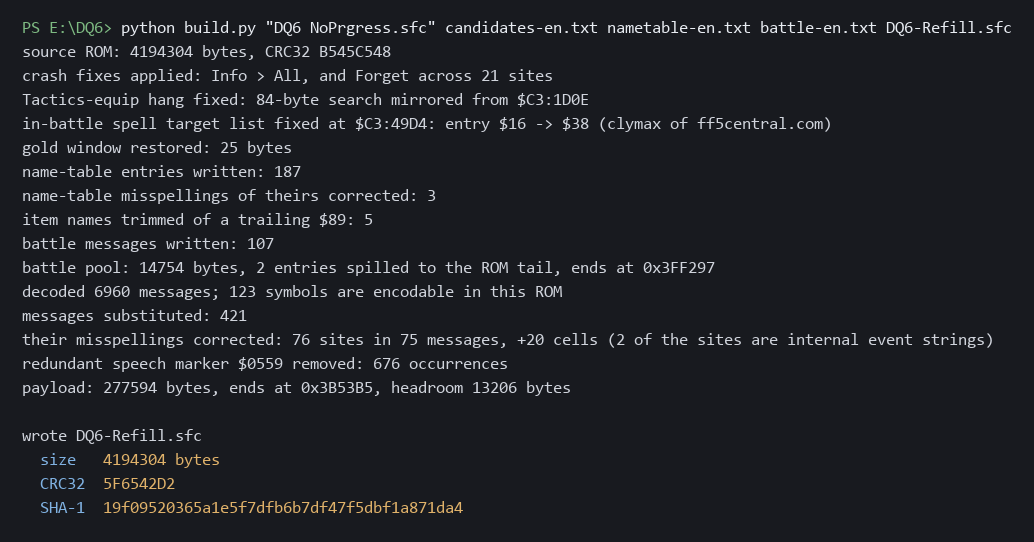
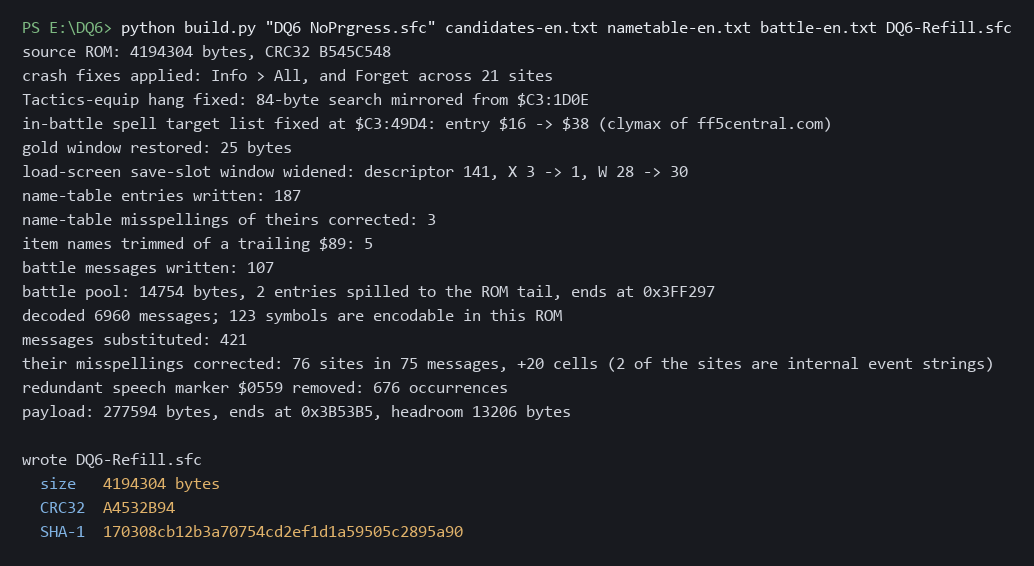
v6.1: widen the load screen's save-slot window
A save location was losing its last letter on the load screen: Dhama Shrine
drew as "Dhama Shrin", Southern Gate lost two. It was not only clipping. The
tilemap row is 32 cells and the text is not bounded by the window, so an
over-long name wraps around the row and draws over the menu behind it.

The window is descriptor 141 in the table at $C5:7B5C. That table is
identified from the code rather than by pattern matching: the window-open
routine at $C3:736C reaches it through an inline argument whose bytes are
5C 7B C5, and the same routine stores the window's left column into $388C.
Every field on the slot line is drawn at $388C plus an offset, so moving the
window moves the whole line and no drawing code changes.

   descriptor 141 at 0x058312
      X: 3 -> 1     two cells left
      W: 28 -> 30   right edge unchanged

The location field goes from 11 cells to 13, which fits both names. The
internal checksum is unchanged because X falls by 2 and W rises by 2 and the
two cancel in the sum. build.py refuses to write unless the descriptor reads
exactly X=3 Y=6 W=28.

The field width was measured, not estimated: a throwaway build with
1234567890ABCDEFGHIJ written into the location entry reports its own width on
screen, and confirmed 11 before and 13 after.

Scope, and it is deliberately narrow. This is the load screen only; the
in-game save screen is a different window and is untouched. The window cannot
[…]

Changed region(s): [[0.0, 0.0295, 0.9903, 0.738], [0.0, 0.797, 0.4642, 0.9742], [0.6499, 0.2952, 0.6809, 0.3247]]

diff --git a/docs/SPELL-TARGET.html b/docs/SPELL-TARGET.html
@@ -293,7 +293,7 @@ differently because of it.</p>
 
 <p><code>build.py</code> prints the substitution as it applies it and refuses to
 write if <code>$C3:49D4</code> does not hold <code>0x16</code> going in. The
-finished build is <code>CRC32 5F6542D2</code>.</p>
+finished build is <code>CRC32 A4532B94</code>.</p>
 
 <p>On a screen, which is the only check that means anything here: get somebody
 into the caravan, start a battle, choose Fight and a spell that targets an ally,

diff --git a/build.py b/build.py
@@ -188,6 +188,13 @@ GOLD_CODE_NOW = bytes.fromhex('A91000223A76C3A93E0022FE83C3ABC2307AFA68286B')
 GOLD_DESC_AT = 0x057E88          # descriptor 58, bytes 0-2: X, Y, W
 GOLD_DESC_NOW = bytes([0x01, 0x01, 0x09])
 
+# The load screen's save-slot window, descriptor 141 in the same table. Moving
+# it two cells left and widening it by two gives the location name 13 cells
+# instead of 11, without moving its right edge. See docs/SAVE-SLOT-WINDOW.md.
+SLOT_DESC_AT = 0x058312          # descriptor 141, bytes 0-2: X, Y, W
+SLOT_DESC_WAS = bytes([0x03, 0x06, 0x1C])
+SLOT_DESC_NOW = bytes([0x01, 0x06, 0x1E])
+
 
 
 # ---------------------------------------------------------------------------
@@ -629,6 +636,29 @@ def _nt_correct(raw, was, now, dic, inv, sid):
             out.append(flat[i])
             i += 1
     return bytes(out)
+
+
+def apply_slot_window(rom):
+    """Widen the load screen's save-slot window. Refuses on anything else.
+
+    The window is descriptor 141 in the table at $C5:7B5C, read by the
+    window-open routine at $C3:736C, which stores the window's left column into
+    $388C. Every field on the slot line is drawn at $388C plus an offset, so
+    moving the window moves the whole line with it and no drawing code changes.
+
+    X 3 -> 1 and W 28 -> 30 keeps the right edge exactly where it was and takes
+    two cells off the left, which is where the slack is. The location name
+    field goes from 11 cells to 13. The internal checksum is unchanged by this
+    edit because the two byte changes cancel.
+    """
+    n = len(SLOT_DESC_WAS)
+    if bytes(rom[SLOT_DESC_AT:SLOT_DESC_AT + n]) != SLOT_DESC_WAS:
+        raise SystemExit(
+            'save-slot window: descriptor 141 at 0x%06X is not the '
+            'expected X=%d Y=%d W=%d. Refusing to write.'
+            % ((SLOT_DESC_AT,) + tuple(SLOT_DESC_WAS)))
+    rom[SLOT_DESC_AT:SLOT_DESC_AT + n] = SLOT_DESC_NOW
+    return n
 
 
 def apply_names(rom, table):
@@ -1118,6 +1148,11 @@ def main(src, cand, names_path, battle_path, dst):
           '(clymax of ff5central.com)' % (TARGET_BEFORE, TARGET_AFTER))
     g = apply_gold(rom)
     print('gold window restored: %d bytes' % g)
+
+    apply_slot_window(rom)
+    print('load-screen save-slot window widened: descriptor 141, X %d -> %d, '
+          'W %d -> %d' % (SLOT_DESC_WAS[0], SLOT_DESC_NOW[0],
+                          SLOT_DESC_WAS[2], SLOT_DESC_NOW[2]))
 
     n_names, n_nt_typo, n_trim = apply_names(rom, read_nametable(names_path))
     print('name-table entries written: %d' % n_names)

diff --git a/patchRM.py b/patchRM.py
@@ -22,7 +22,7 @@ Standard-library Python 3 only. No dependencies, nothing to install.
 
 The result is identical to what Flips produces from the same patch:
 
-    CRC32 5F6542D2   SHA-1 19f09520365a1e5f7dfb6b7df47f5dbf1a871da4
+    CRC32 A4532B94   SHA-1 170308cb12b3a70754cd2ef1d1a59505c2895a90
 """
 import glob
 import hashlib
@@ -32,7 +32,7 @@ import sys
 import zlib
 
 EXPECT_SRC_CRC = 0xB545C548
-EXPECT_DST_CRC = 0x5F6542D2
+EXPECT_DST_CRC = 0xA4532B94
 DEFAULT_PATCH = 'DQ6-SFC-NoPrgress-RM-ScriptRefill.bps'
 NL = chr(10)
 
@@ -242,7 +242,8 @@ def main(argv):
     print()
     print('  The patch contains everything: 421 messages, 107 battle messages,')
     print('  187 name-table entries, 67 corrected misspellings of theirs, the')
-    print('  item-name asterisk that overran the item window, both crash fixes,')
+    print('  item-name asterisk that overran the item window, the widened')
+    print('  save-slot window on the load screen, both crash fixes,')
     print("  the Tactics-equip hang, the gold window, clymax's in-battle spell")
     print('  target fix, and the redundant speech marker dropped. Nothing else')
     print('  to apply. Your original ROM was not modified.')

diff --git a/docs/SAVE-SLOT-WINDOW.md b/docs/SAVE-SLOT-WINDOW.md
@@ -1,0 +1,117 @@
+# The load screen's save-slot window
+
+Why `Dhama Shrine` lost its last letter on the load screen, and the two bytes
+that fixed it in v6.1.
+
+---
+
+## What it looked like
+
+On `Continue A Quest`, each save slot draws one line:
+
+```
+1:Mike          Lv84  Dhama Shrin
+```
+
+The final `e` sat under the window frame. `Southern Gate` lost two letters.
+
+It is not only clipping. The tilemap row is 32 cells wide and the text is not
+bounded by the window, so an over-long name **wraps around the row** and draws
+on the next line at the left of the screen. A ruler string written into the
+place-name entry showed characters 14 and 15 appearing outside the box, over
+the menu behind it.
+
+---
+
+## Measuring it
+
+A throwaway build with `1234567890ABCDEFGHIJ` written into the location entry,
+photographed at a known window size, gives the field width directly: each
+character names its own position, so the last one visible is the answer.
+
+Measured against a 32-cell screen, before the fix:
+
+| | cell |
+|---|---|
+| window frame, left | 3.0 |
+| cursor | 4.2 |
+| `1:` + name field (8 characters) | 5 - 12 |
+| `Lv84` | 14 - 16 |
+| place name | 20 - 30 |
+| window frame, right | 30.6 |
+
+**Eleven cells** for the location. `Dhama Shrine` is 12 and `Southern Gate` is
+13, so both overran, and the ruler confirmed the count exactly.
+
+---
+
+## The fix
+
+The window is **descriptor 141** in the table at `$C5:7B5C`, 14 bytes per
+entry with X, Y, W in the first three.
+
+That table is identified from the code rather than from pattern matching: the
+window-open routine at `$C3:736C` reads it through an inline argument whose
+bytes are `5C 7B C5`. The same routine stores the window's left column into
+`$388C`, and every field on the slot line is drawn at `$388C` plus an offset.
+**So moving the window moves the whole line with it**, and no drawing code has
+to change.
+
+```
+descriptor 141 at 0x058312
+   X: 3 -> 1        two cells left
+   W: 28 -> 30      right edge stays exactly where it was
+```
+
+Two bytes. The location field goes from 11 cells to **13**, which fits both
+names above, and the wrap-around no longer happens for them.
+
+The SNES internal checksum is unchanged, because `X` falls by 2 and `W` rises
+by 2 and the two cancel in the sum.
+
+`build.py` refuses to write unless descriptor 141 reads exactly `X=3 Y=6 W=28`,
+the same guard the crash fixes and the gold window use.
+
+---
+
+## Why it stops at 13
+
+**The window cannot grow outward.** Tested on hardware and in an emulator:
+moving the left edge to cell 0, or extending the right edge to cell 31, puts
+the frame where overscan cuts it. `X=1, W=30` is the practical limit in both
+directions, so 13 cells is the ceiling this approach can reach.
+
+**Two cells inside the line are still wasted** - one between the name field and
+`Lv`, one between `Lv84` and the location. Reclaiming them would give 15
+without touching the window at all, and that is the better fix. It was not
+done because the gaps are not constants in the drawing code: this menu system
+queues *fields* into a list at runtime (`$C3:7C95` writes them to `$3AC6`), and
+the gaps come from dedicated spacer fields whose only body is `INC $388A`:
+
+```
+$C3:84BC   INC $388A / RTL          advance one cell
+$C3:84C5   INC $388A / INC $388A    advance two
+```
+
+Those routines are shared across windows, so patching one blind would move text
+on screens that are currently correct. Identifying which spacer this window
+queues needs a runtime trace - a write breakpoint on `$7E:388A` while the load
+screen draws - not static reading. Three separate column constants were tried
+and rejected first: `$C3:913D` `+8`, `$C3:8927` `+9`, `$C3:8947` `+9`. All
+three drive other screens; none moved this one.
+
+---
+
+## Scope, and what is not fixed
+
+**This is the load screen only.** The in-game save screen, reached from a king
+or a priest, is a *different window* that this release does not touch. It sits
+nearly flush with the screen already, so it has far less slack.
+
+**Long location names still overrun.** Of 94 location entries, 37 were longer
+than the old 11 cells and **19 are still longer than 13**, including five at 17
+characters (`Wild Horse Forest`, `Land of Happiness`, `Northern Mountain`,
+`Dream-seeing Well`, `Herbal Hotsprings`). Whether any of them is a place the
+game lets you save at has not been established. If one turns up in play, the
+options are the two internal cells above, or shortening the name - and the
+names are NoPrgress's, so that is not a change this project makes on its own.

diff --git a/README.md b/README.md
@@ -119,6 +119,14 @@ New in v5.0, it drops a **trailing asterisk from five item names** that pushed
 `Demon Hammer*`, `Mirror Armor*` and `Flame Shield*` past the right edge of the
 item window. See [`docs/ITEM-NAME-ASTERISK.md`](docs/ITEM-NAME-ASTERISK.md).
 
+New in v6.1, it **widens the load screen's save-slot window** so a save
+location fits. `Dhama Shrine` was losing its last letter and `Southern Gate`
+two, and an over-long name did not merely clip: it wrapped around the tilemap
+row and drew over the menu behind it. Two bytes in one window descriptor take
+the location field from 11 cells to 13. This is the **load screen only**; the
+in-game save screen is a different window and is unchanged. Details, and what
+is still not fixed, in [`docs/SAVE-SLOT-WINDOW.md`](docs/SAVE-SLOT-WINDOW.md).
+
 New in v6.0, it writes **107 battle messages**. These live in a third string
 system that nothing in this project could see until it was looked for directly:
 a byte-encoded pool whose pointer table ends on the first byte of the Huffman
@@ -284,8 +292,9 @@ back.
 **This is what you want if you just want to play.** One step, no Python.
 
 **One patch contains everything** - the 421 messages, the 107 battle messages,
-the 187 names, the 67 corrected misspellings, the item-name asterisk, both crash
-fixes, the Tactics-equip hang, the gold window and clymax's spell-target fix.
+the 187 names, the 67 corrected misspellings, the item-name asterisk, the
+save-slot window, both crash fixes, the Tactics-equip hang, the gold window and
+clymax's spell-target fix.
 There is nothing else to apply and no order to get right. Do not apply the
 menu-fix patch as well, and do not apply clymax's patch as well; this one
 already contains both.
@@ -346,7 +355,7 @@ above. Standard-library Python 3, no dependencies.
 Check what you get, whichever route you used:
 
 ```
-result   CRC32 5F6542D2   SHA-1 19f09520365a1e5f7dfb6b7df47f5dbf1a871da4
+result   CRC32 A4532B94   SHA-1 170308cb12b3a70754cd2ef1d1a59505c2895a90
 ```
 
 That is the whole thing. **You are done** - the 421 messages, the 187 names,
@@ -383,9 +392,9 @@ fetched from anywhere else.
 python build.py DQ6-NoPrgress.sfc candidates-en.txt nametable-en.txt \n                battle-en.txt DQ6-Refill.sfc
 ```
 
-![The build script running: it reports the source ROM as CRC32 B545C548, applies both crash fixes across 21 sites, fixes the Tactics-equip hang and the in-battle spell target list, restores the gold window, writes the name-table entries, corrects three misspellings in theirs and trims the asterisk from five item names, writes 107 battle messages and repacks that pool, decodes 6,960 messages, substitutes 421, corrects 76 misspelled sites in their own messages, drops the redundant speech marker, and reports the finished ROM's CRC32 and SHA-1](screenshots/build-run.png)
+![The build script running: it reports the source ROM as CRC32 B545C548, applies both crash fixes across 21 sites, fixes the Tactics-equip hang and the in-battle spell target list, restores the gold window, widens the load screen's save-slot window, writes the name-table entries, corrects three misspellings in theirs and trims the asterisk from five item names, writes 107 battle messages and repacks that pool, decodes 6,960 messages, substitutes 421, corrects 76 misspelled sites in their own messages, drops the redundant speech marker, and reports the finished ROM's CRC32 and SHA-1](screenshots/build-run.png)
 
-If your output is not `5F6542D2`, the input ROM is not the one this targets.
+If your output is not `A4532B94`, the input ROM is not the one this targets.
 Check its CRC32 before anything else.
 
 The script refuses to write if the ROM is not what it expects. Every fix checks
@@ -454,7 +463,7 @@ so a location read `M194` and a battle action read `M6BA`. **186 are now
 written, leaving 208 in the release build.** Every figure here was measured
 against a ROM, and each says which ROM it describes:
 
-| | stock `B545C548` | release `5F6542D2` |
+| | stock `B545C548` | release `A4532B94` |
 |---|---|---|
 | entries displaying an identifier | **394** | **208** |
 | written by this patch | - | **186** |

diff --git a/RHDN/README.md b/RHDN/README.md
@@ -7,15 +7,15 @@ yourself gives a ROM with CRC32 `276D9893`, which is the same translation as
 the Japanese ROM's own internal checksum in place instead of recomputing it over
 the translated data. `DQ6-SFC-NoPrgress-RM-ScriptRefill-RHDN.bps` expects
 `276D9893` and refuses `B545C548`, exactly as the root one does in reverse, and
-both produce `CRC32 5F6542D2` / `SHA-1 19f09520365a1e5f7dfb6b7df47f5dbf1a871da4`.
+both produce `CRC32 A4532B94` / `SHA-1 170308cb12b3a70754cd2ef1d1a59505c2895a90`.
 The `.ips` is byte-identical to the one in the root, because IPS records only the
 bytes to write and both sources differ from the output in the same places; it is
 here so this directory is complete on its own.
 
 | File | Size | SHA-1 |
 |---|---:|---|
-| `DQ6-SFC-NoPrgress-RM-ScriptRefill-RHDN.bps` | 312,168 | `b6ab0521b8fdce991901f5bd7020c5db228aa3a9` |
-| `DQ6-SFC-NoPrgress-RM-ScriptRefill-RHDN.ips` | 318,325 | `98f4dd3bade9ac5e97148ca24433ab4b02ac2b11` |
+| `DQ6-SFC-NoPrgress-RM-ScriptRefill-RHDN.bps` | 312,175 | `9fa2e88b296ba79beec40e52241b4eeb3cea400f` |
+| `DQ6-SFC-NoPrgress-RM-ScriptRefill-RHDN.ips` | 318,337 | `b6173d5a702655d586c2aae4729c350dc4194651` |
 
 `patchRM.py` in the root needs none of this. It takes either ROM with either
 patch, corrects the four bytes in memory to match whichever patch you gave it,

diff --git a/docs/SPELL-TARGET.md b/docs/SPELL-TARGET.md
@@ -202,7 +202,7 @@ both produce the same result.
 
 `build.py` prints the substitution as it applies it and refuses to write if
 `$C3:49D4` does not hold `0x16` going in. The finished build is
-`CRC32 5F6542D2`.
+`CRC32 A4532B94`.
 
 On a screen, which is the only check that means anything here: get somebody into
 the caravan, start a battle, choose Fight and a spell that targets an ally, and
